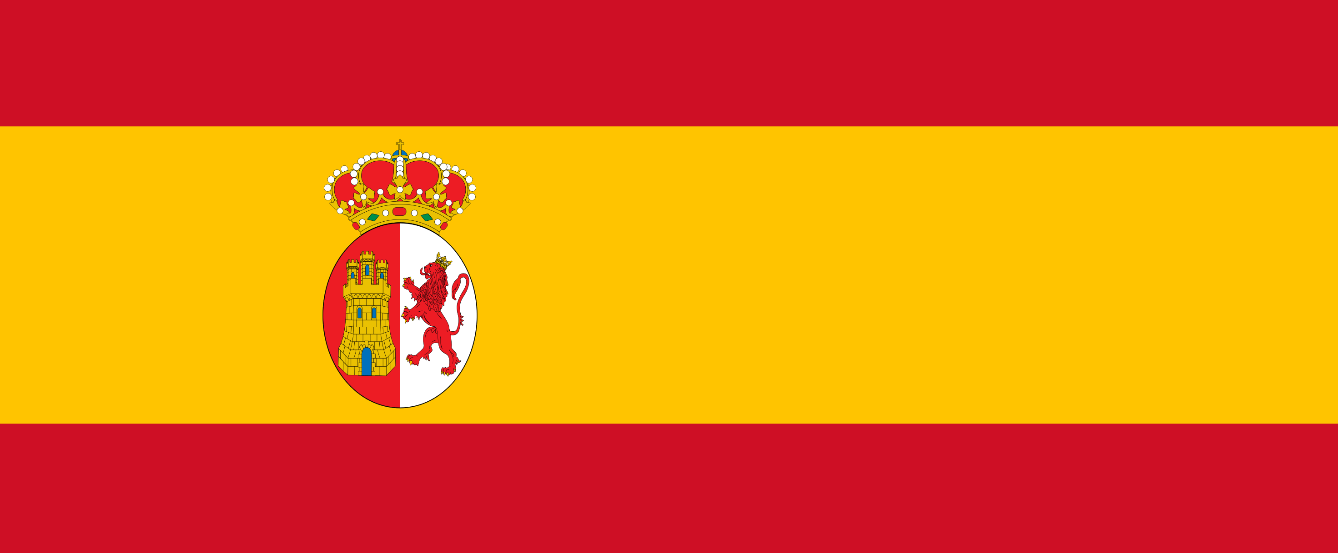
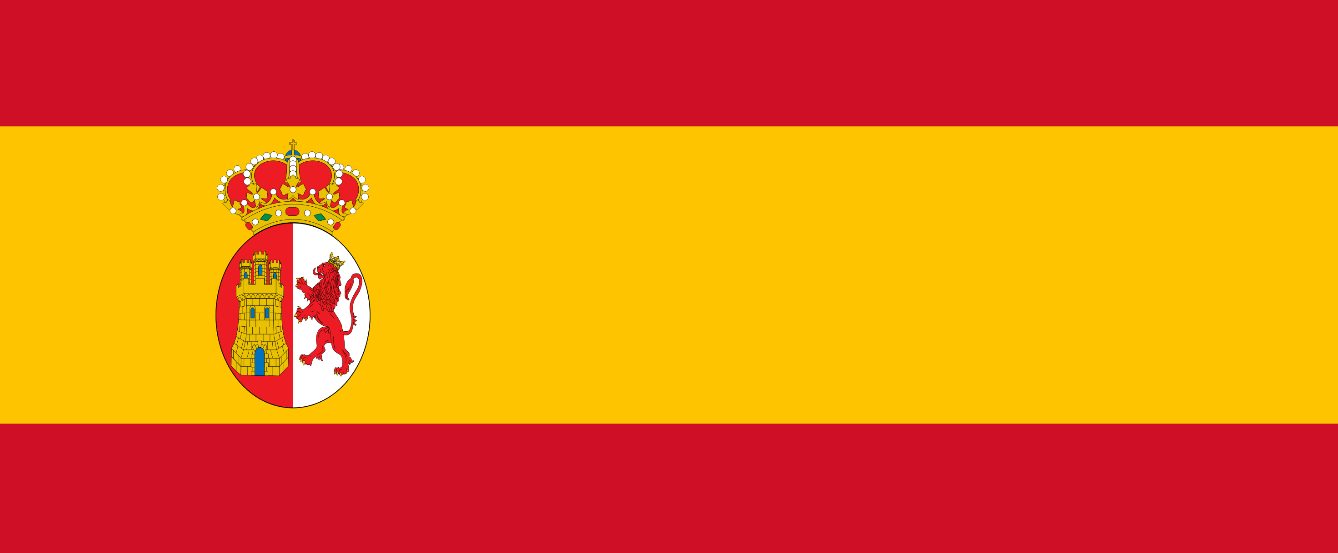
Flag

Changed region(s): [[0.1532, 0.2459, 0.3677, 0.7378]]

diff --git a/HtmlForNations/TimesOf_Spain/Spain_CSS/Spain1790Css.css b/HtmlForNations/TimesOf_Spain/Spain_CSS/Spain1790Css.css
@@ -381,7 +381,7 @@ nav {
 }
 
 .mainTitle-Item {
-  background-image: url("../SpainImg/Spain1873/SpainFlag.png");
+  background-image: url("../SpainImg/Spain1790/SpainFlag.png");
   background-size: 100% 100%;
 }
 
